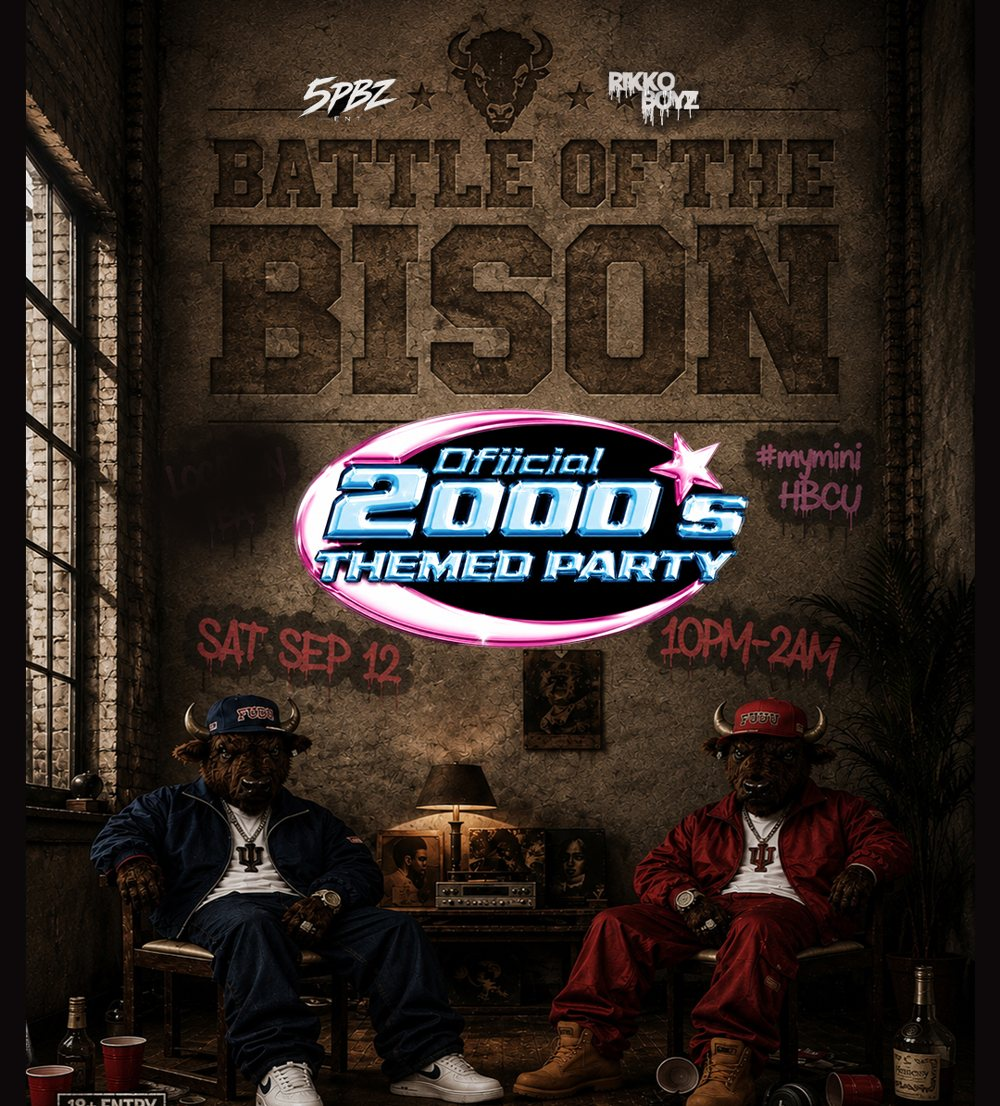
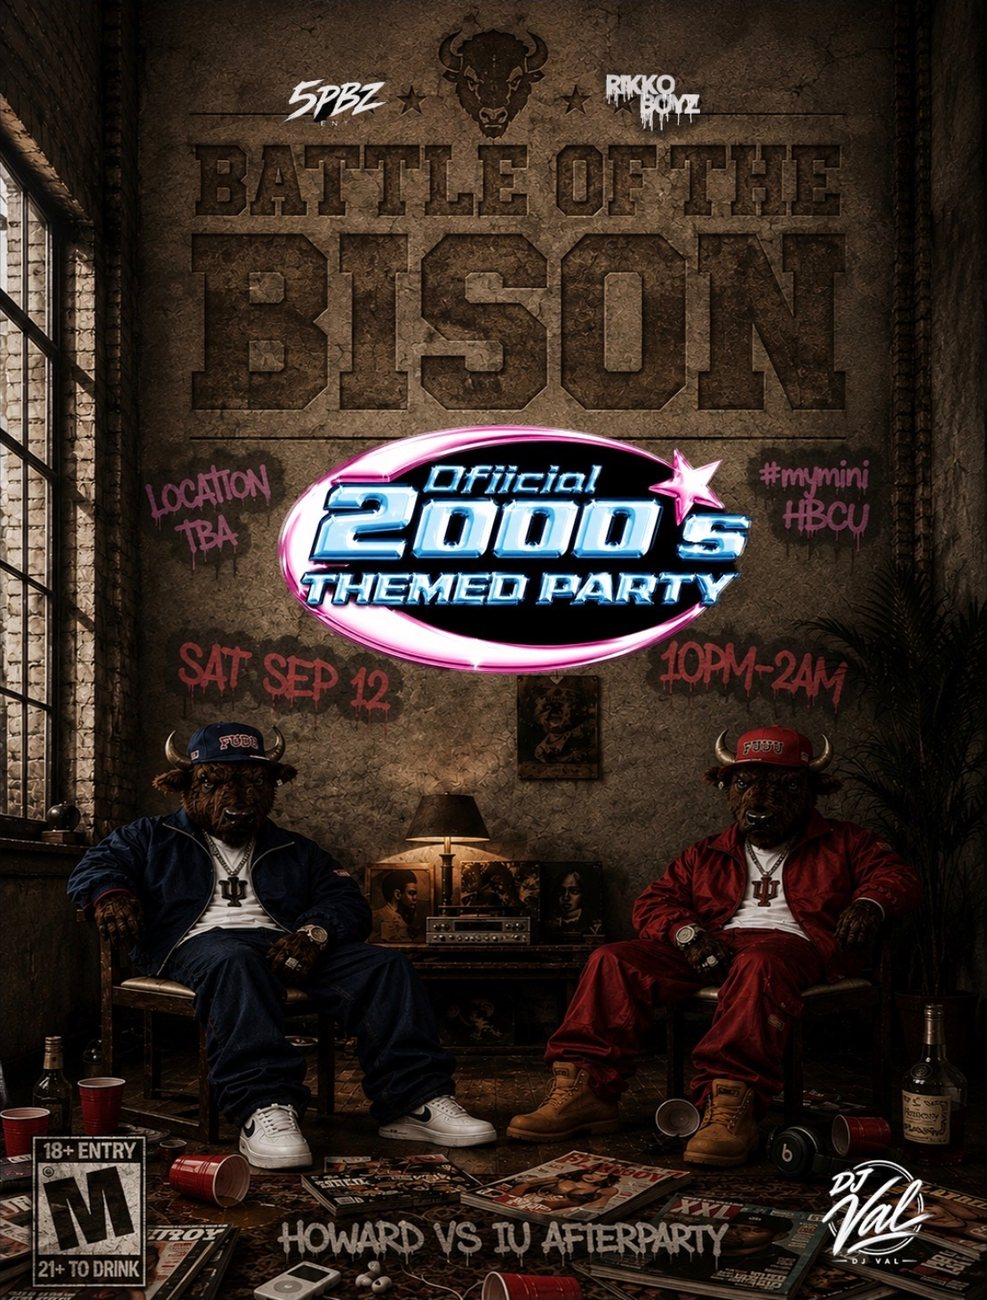
Use the Location TBA version of the Battle of the Bison flyer
Claude-Session: https://claude.ai/code/session_013ifuA8FVpbchhK71ENMhrq

diff --git a/index.html b/index.html
@@ -295,7 +295,7 @@ footer .legal{width:100%;letter-spacing:.1em;color:#8E9196}
       <h3>Earlier events</h3>
       <div class="feature" style="margin:16px 0 28px">
         <div class="feature-img">
-          <img src="assets/flyer-battle-of-the-bison.jpg" alt="Battle of the Bison flyer, Official 2000s Themed Party, Saturday September 12, 10 PM to 2 AM, 5PBZ x Rikko Boyz" loading="lazy" width="1000" height="1106">
+          <img src="assets/flyer-battle-of-the-bison.jpg" alt="Battle of the Bison flyer, Official 2000s Themed Party, Saturday September 12, 10 PM to 2 AM, 5PBZ x Rikko Boyz" loading="lazy" width="987" height="1300">
         </div>
         <div class="feature-body">
           <span class="badge">Flagship · Sat 9.12</span>
